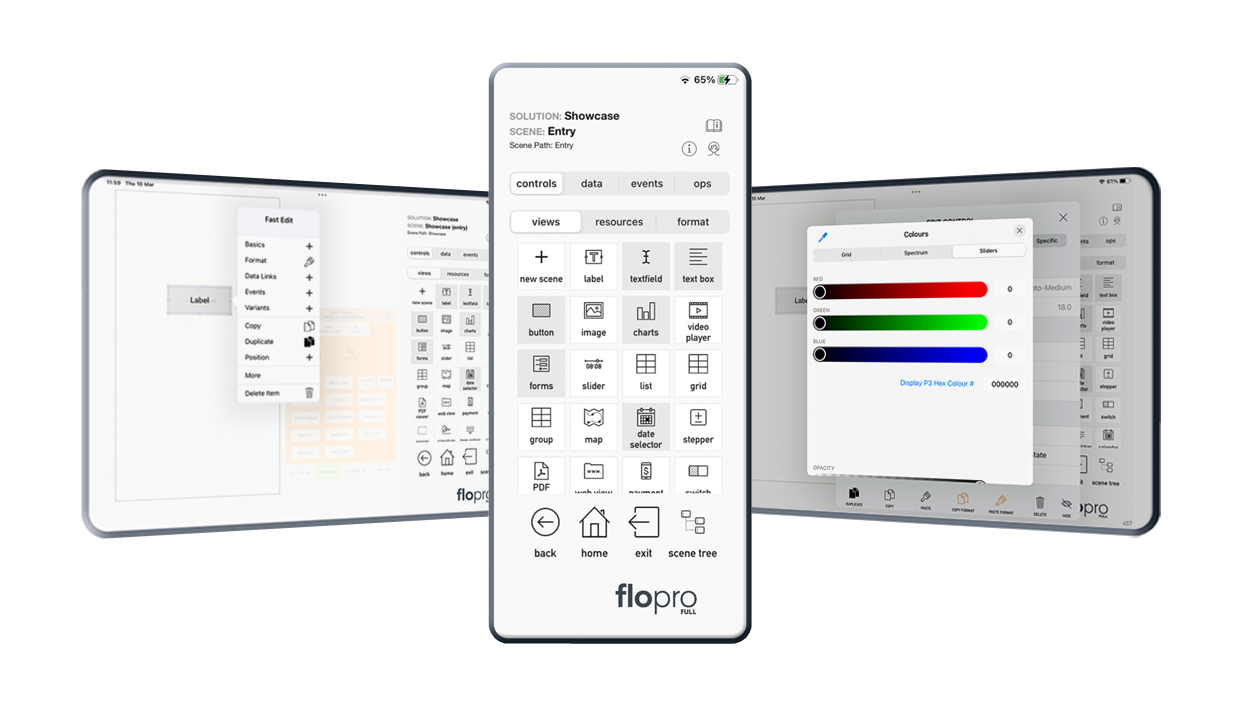
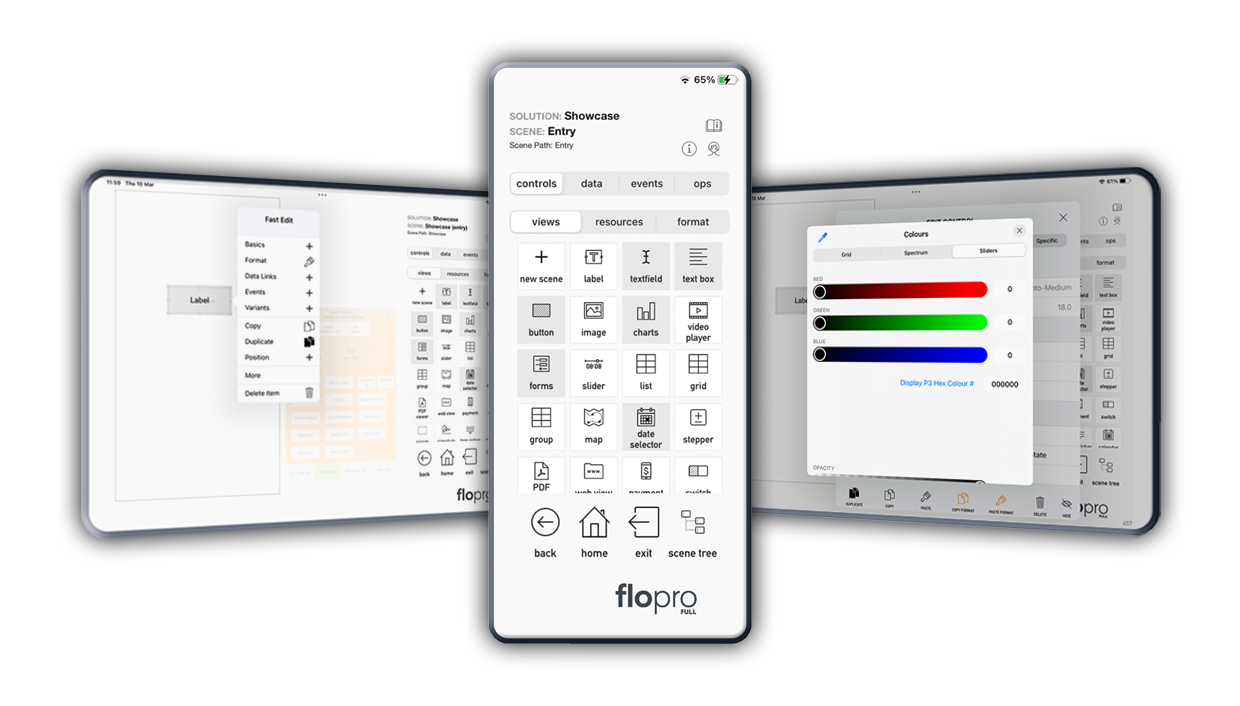
fixed showcase image scaling

Changed region(s): [[0.0306, 0.0623, 0.95, 0.9348]]

diff --git a/assets/scss/templates/_main.scss b/assets/scss/templates/_main.scss
@@ -380,10 +380,12 @@
 }
 .img-left {
   border-radius: 18px 0px 0px 18px; 
+  max-width: 49%;
 }
 
 .img-right {
    border-radius: 0px 18px 18px 0px; 
+   max-width: 49%;
 }
 
 // office-loc
